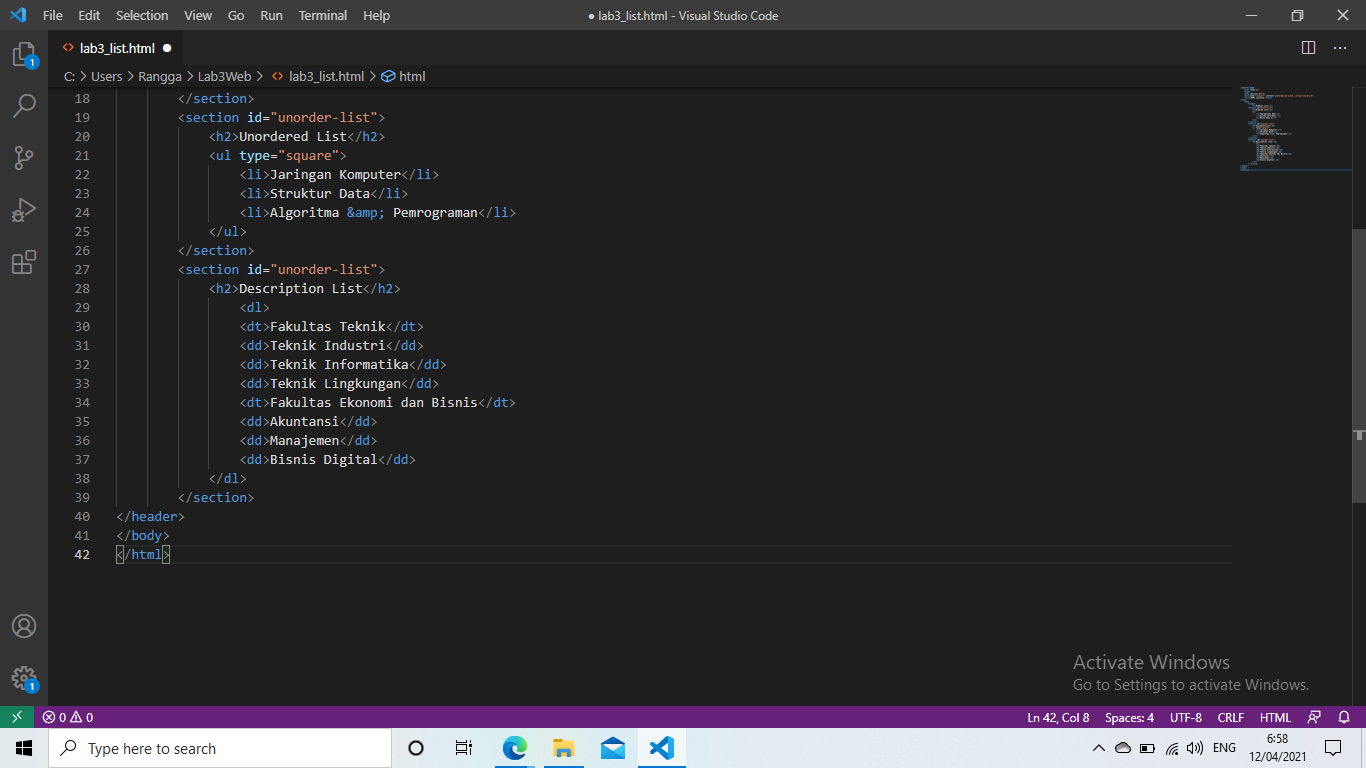
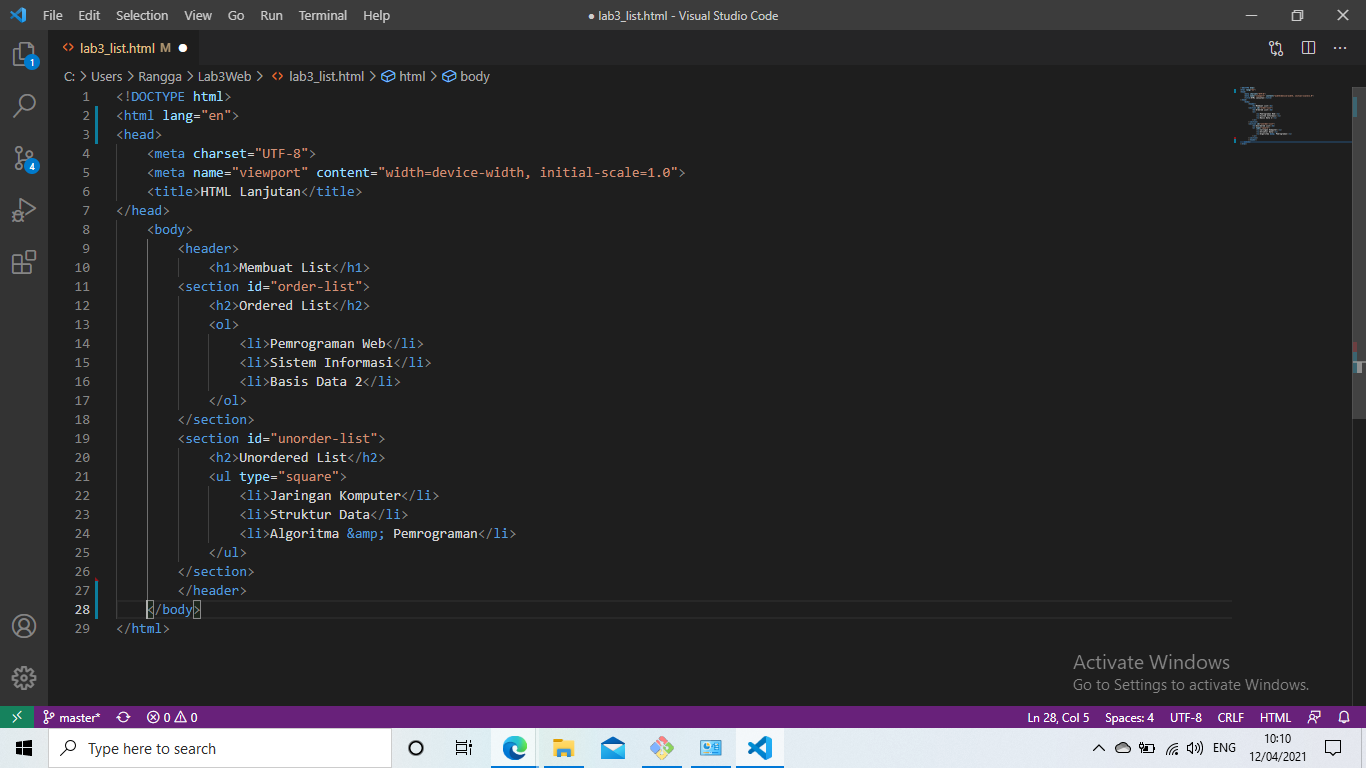
first commit

diff --git a/lab3_list.html b/lab3_list.html
@@ -1,6 +1,6 @@
 <!DOCTYPE html>
-    <html lang="en">
-    <head>
+<html lang="en">
+<head>
     <meta charset="UTF-8">
     <meta name="viewport" content="width=device-width, initial-scale=1.0">
     <title>HTML Lanjutan</title>
@@ -24,19 +24,6 @@
                 <li>Algoritma &amp; Pemrograman</li>
             </ul>
         </section>
-        <section id="unorder-list">
-            <h2>Description List</h2>
-                <dl>
-                <dt>Fakultas Teknik</dt>
-                <dd>Teknik Industri</dd>
-                <dd>Teknik Informatika</dd>
-                <dd>Teknik Lingkungan</dd>
-                <dt>Fakultas Ekonomi dan Bisnis</dt>
-                <dd>Akuntansi</dd>
-                <dd>Manajemen</dd>
-                <dd>Bisnis Digital</dd>
-            </dl>
-        </section>
-</header>
-</body>
+        </header>
+    </body>
 </html>
